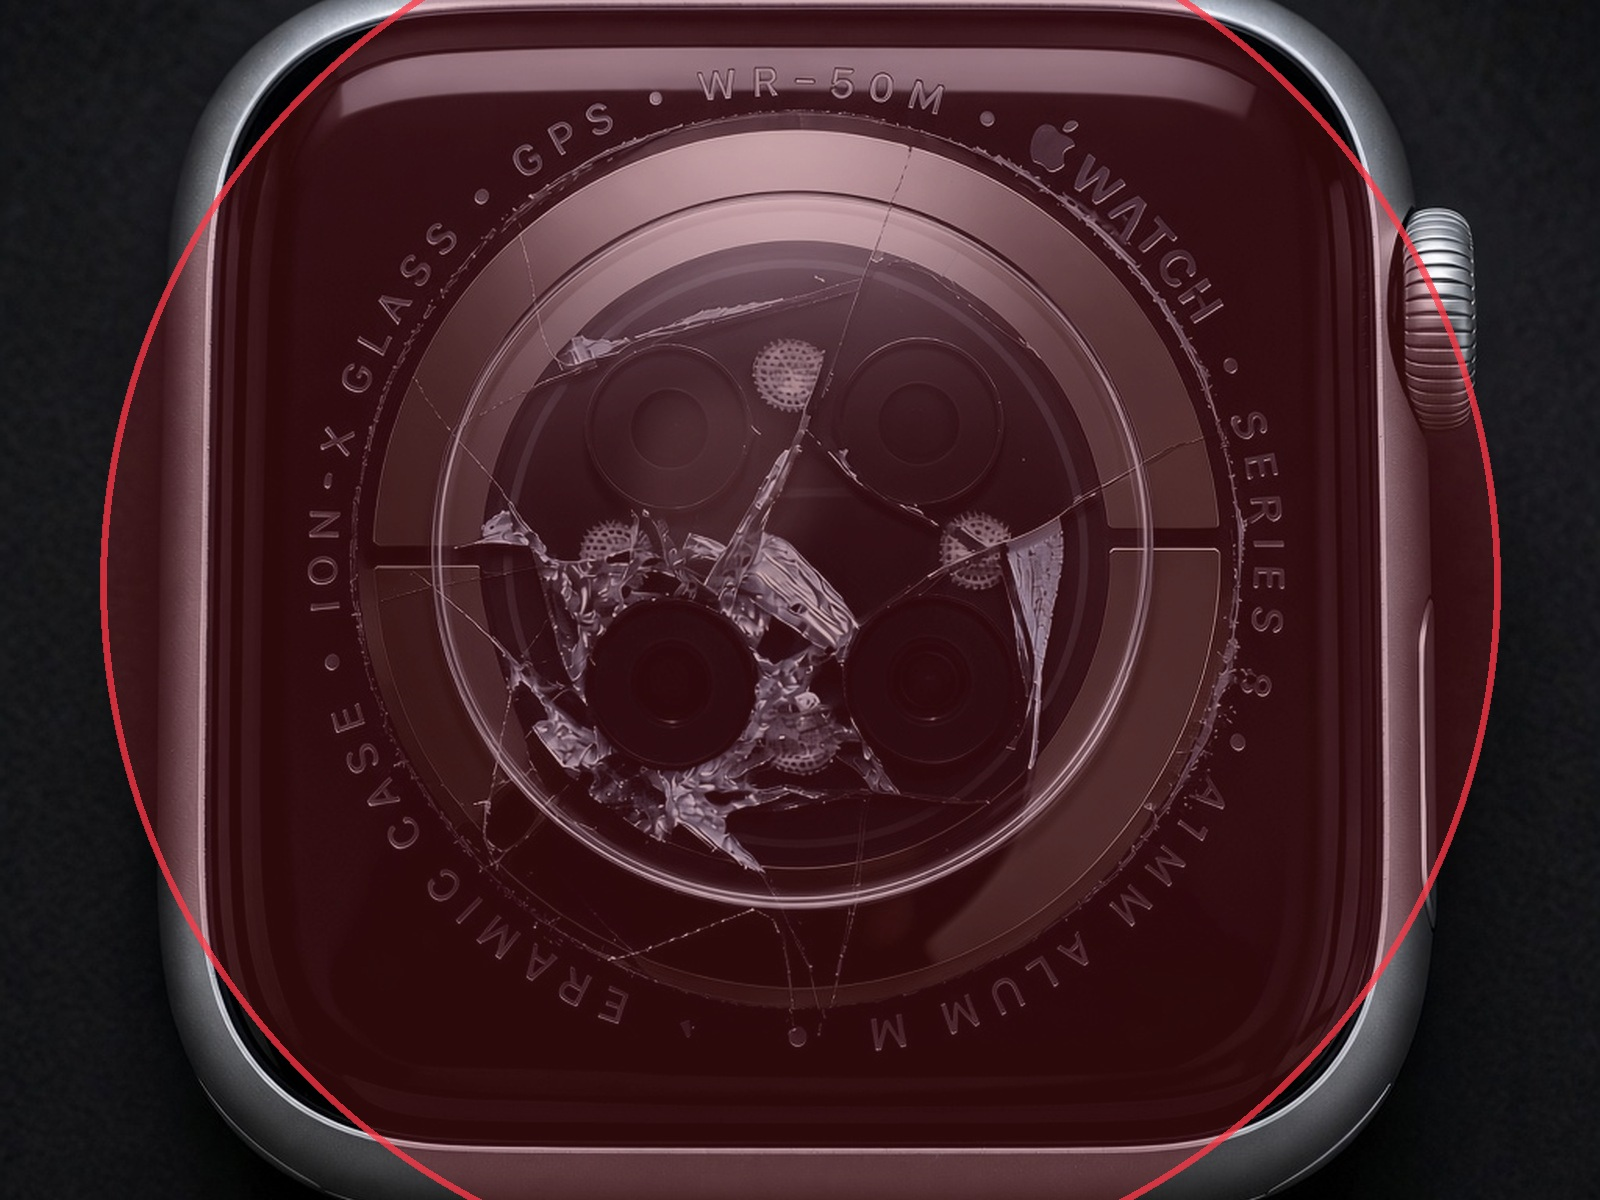
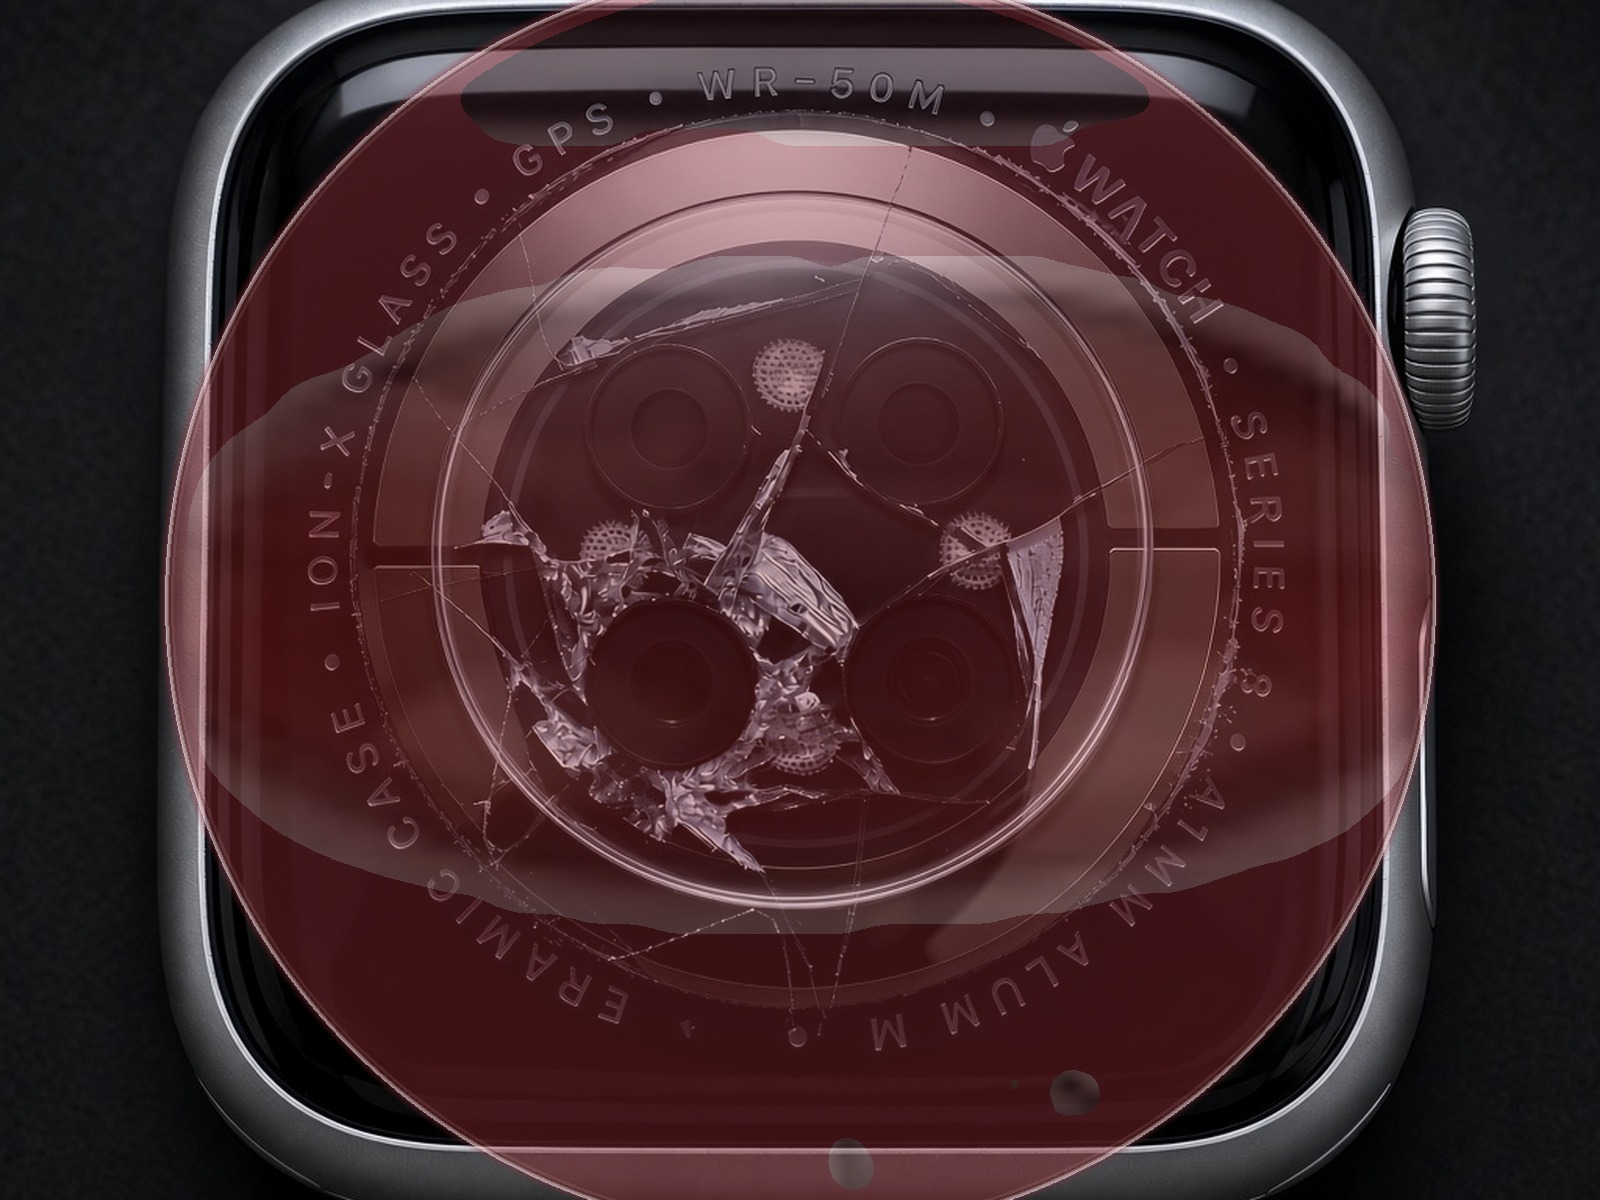
Hero: borda da lente passa além das letras SERIES 8.
Raio da borda calibrado fora do anel gravado; cache crash15.

diff --git a/en/index.html b/en/index.html
@@ -101,7 +101,7 @@
                 </div>
             </div>
             <div class="hero-visual">
-                <img src="../images/home/relogio_home_lens.jpg?v=crash14" alt="Sensor Crash Fix lens covering the cracked sensor — larger diameter to seal and protect" class="product-img">
+                <img src="../images/home/relogio_home_lens.jpg?v=crash15" alt="Sensor Crash Fix lens covering the cracked sensor — larger diameter to seal and protect" class="product-img">
             </div>
         </div>
     </section>

diff --git a/index.html b/index.html
@@ -90,7 +90,7 @@
                 </div>
             </div>
             <div class="hero-visual">
-                <img src="images/home/relogio_home_lens.jpg?v=crash14" alt="Lente Sensor Crash Fix cobrindo o sensor rachado — diâmetro maior para vedar e proteger" class="product-img">
+                <img src="images/home/relogio_home_lens.jpg?v=crash15" alt="Lente Sensor Crash Fix cobrindo o sensor rachado — diâmetro maior para vedar e proteger" class="product-img">
             </div>
         </div>
     </section>

diff --git a/de/index.html b/de/index.html
@@ -107,7 +107,7 @@
                 </div>
             </div>
             <div class="hero-visual">
-                <img src="../images/home/relogio_home_lens.jpg?v=crash14" alt="Sensor Crash Fix" class="product-img">
+                <img src="../images/home/relogio_home_lens.jpg?v=crash15" alt="Sensor Crash Fix" class="product-img">
             </div>
         </div>
     </section>

diff --git a/es/index.html b/es/index.html
@@ -107,7 +107,7 @@
                 </div>
             </div>
             <div class="hero-visual">
-                <img src="../images/home/relogio_home_lens.jpg?v=crash14" alt="Sensor Crash Fix" class="product-img">
+                <img src="../images/home/relogio_home_lens.jpg?v=crash15" alt="Sensor Crash Fix" class="product-img">
             </div>
         </div>
     </section>

diff --git a/it/index.html b/it/index.html
@@ -101,7 +101,7 @@
                 </div>
             </div>
             <div class="hero-visual">
-                <img src="../images/home/relogio_home_lens.jpg?v=crash14" alt="Sensor Crash Fix" class="product-img">
+                <img src="../images/home/relogio_home_lens.jpg?v=crash15" alt="Sensor Crash Fix" class="product-img">
             </div>
         </div>
     </section>

diff --git a/pl/index.html b/pl/index.html
@@ -107,7 +107,7 @@
                 </div>
             </div>
             <div class="hero-visual">
-                <img src="../images/home/relogio_home_lens.jpg?v=crash14" alt="Sensor Crash Fix" class="product-img">
+                <img src="../images/home/relogio_home_lens.jpg?v=crash15" alt="Sensor Crash Fix" class="product-img">
             </div>
         </div>
     </section>

diff --git a/sl/index.html b/sl/index.html
@@ -94,7 +94,7 @@
                 </div>
             </div>
             <div class="hero-visual">
-                <img src="../images/home/relogio_home_lens.jpg?v=crash14" alt="Sensor Crash Fix" class="product-img">
+                <img src="../images/home/relogio_home_lens.jpg?v=crash15" alt="Sensor Crash Fix" class="product-img">
             </div>
         </div>
     </section>

diff --git a/scripts/compose-hero-lens.py b/scripts/compose-hero-lens.py
@@ -1,0 +1,86 @@
+#!/usr/bin/env python3
+"""Compose hero lens overlay: rim past engraved text (SERIES 8 / ION-X / etc.)."""
+from pathlib import Path
+from PIL import Image, ImageDraw, ImageFilter
+import numpy as np
+
+ROOT = Path(__file__).resolve().parents[1]
+BASE = ROOT / "images/home/relogio_home.jpg"
+OUT = ROOT / "images/home/relogio_home_lens.jpg"
+LENS_SRC = Path("/tmp/lens-only.png")
+
+# Calibrated against SERIES 8 crop: text ~r=450-520, rim must clear past letters
+CX, CY = 800, 600
+R_RIM = 635
+R_OUT = 642
+
+
+def main():
+    base_img = Image.open(BASE).convert("RGBA")
+    W, H = base_img.size
+    diam = R_OUT * 2
+    if LENS_SRC.exists():
+        src = np.array(
+            Image.open(LENS_SRC).convert("RGBA").resize((diam, diam), Image.LANCZOS)
+        ).astype(np.float32)
+    else:
+        src = None
+
+    yy, xx = np.ogrid[:diam, :diam]
+    c = diam / 2 - 0.5
+    dist = np.sqrt((xx - c) ** 2 + (yy - c) ** 2)
+    inside = dist <= R_OUT
+    rn = np.where(R_OUT > 0, dist / R_OUT, 0)
+
+    arr = np.zeros((diam, diam, 4), dtype=np.float32)
+    arr[inside, 0] = 145
+    arr[inside, 1] = 42
+    arr[inside, 2] = 48
+    if src is not None:
+        src_a = src[:, :, 3] / 255.0
+        has_tex = (src_a > 0.12) & inside
+        arr[has_tex, 0] = np.clip(src[has_tex, 0] * 0.65 + 45, 0, 255)
+        arr[has_tex, 1] = np.clip(src[has_tex, 1] * 0.55 + 12, 0, 255)
+        arr[has_tex, 2] = np.clip(src[has_tex, 2] * 0.55 + 14, 0, 255)
+
+    alpha = np.zeros((diam, diam), dtype=np.float32)
+    alpha[inside] = 72 + 40 * (rn[inside] ** 0.85)
+    fade = np.clip((1.0 - rn) / 0.012, 0, 1)
+    alpha *= fade
+    arr[:, :, 3] = np.clip(alpha, 0, 130)
+
+    lens_layer = Image.fromarray(arr.astype(np.uint8), "RGBA")
+    out = base_img.copy()
+    out.alpha_composite(lens_layer, dest=(int(CX - R_OUT), int(CY - R_OUT)))
+
+    rim = Image.new("RGBA", (W, H), (0, 0, 0, 0))
+    d = ImageDraw.Draw(rim)
+    for width, color in [
+        (9, (230, 210, 200, 28)),
+        (5, (245, 235, 225, 55)),
+        (3, (255, 250, 245, 110)),
+        (1, (255, 255, 255, 180)),
+    ]:
+        d.ellipse(
+            [CX - R_RIM, CY - R_RIM, CX + R_RIM, CY + R_RIM],
+            outline=color,
+            width=width,
+        )
+    d.ellipse(
+        [CX - (R_RIM - 4), CY - (R_RIM - 4), CX + (R_RIM - 4), CY + (R_RIM - 4)],
+        outline=(50, 12, 20, 55),
+        width=2,
+    )
+    d.ellipse(
+        [CX - R_RIM - 1, CY - R_RIM - 1, CX + R_RIM + 1, CY + R_RIM + 1],
+        outline=(150, 110, 190, 40),
+        width=1,
+    )
+    rim = rim.filter(ImageFilter.GaussianBlur(radius=0.45))
+    out = Image.alpha_composite(out, rim)
+    out.convert("RGB").save(OUT, quality=92, optimize=True)
+    print(f"wrote {OUT} R_RIM={R_RIM} R_OUT={R_OUT}")
+
+
+if __name__ == "__main__":
+    main()
